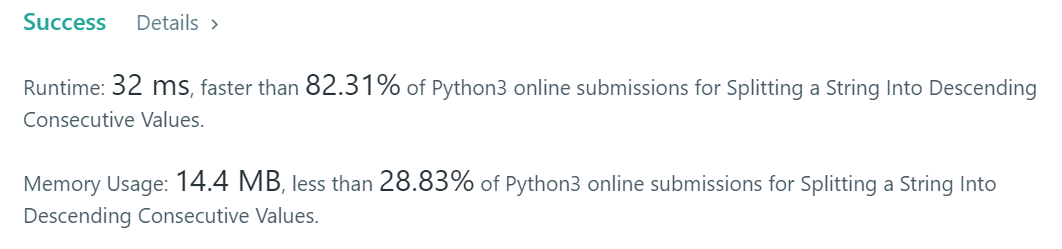
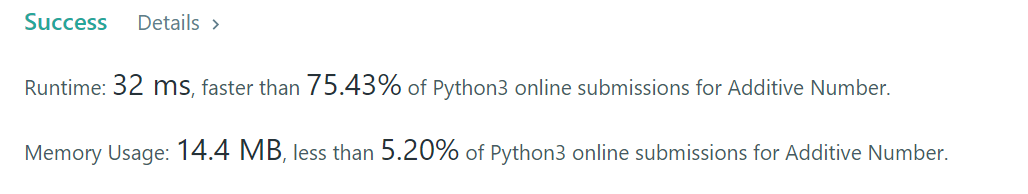
GitBook: [#59] No subject

Changed region(s): [[0.0, 0.2784, 0.9961, 0.5258], [0.0, 0.6804, 0.9339, 0.9278], [0.0, 0.0619, 0.2179, 0.1546]]

diff --git a/2022.jan.14/20.-valid-parentheses.md b/2022.jan.14/20.-valid-parentheses.md
@@ -1,0 +1,82 @@
+# 20. Valid Parentheses
+
+* Easy
+*   Given a string `s` containing just the characters `'('`, `')'`, `'{'`, `'}'`, `'['` and `']'`, determine if the input string is valid.
+
+    An input string is valid if:
+
+    1. Open brackets must be closed by the same type of brackets.
+    2. Open brackets must be closed in the correct order.
+
+    &#x20;
+
+### Solution Python&#x20;
+
+![](<../.gitbook/assets/image (13).png>)
+
+```
+class Solution:
+    def isValid(self, s: str) -> bool:
+        openb={"(":")","{":"}","[":"]"}
+        ans=[]
+        for i in s:
+            if i in openb:
+                ans.append(i)
+            else:
+                if ans==[]:
+                    return False
+                check=ans.pop()
+                if openb[check]!=i:
+                    return False
+        return ans == []
+```
+
+### Solution C&#x20;
+
+Notice that in the program we are using '' instead of "". In C they mean [differently](https://stackoverflow.com/questions/25384517/whats-the-difference-between-and-in-c-programming): Double quotes for strings and single quotes for characters.&#x20;
+
+![](<../.gitbook/assets/image (14).png>)
+
+```
+bool isValid(char * s){
+    int n = strlen(s);
+    char* test=malloc(sizeof(char)*n);
+    char c,e;
+    int top=0;
+    for (int i=0;i<n;i++){
+        c=s[i];
+        if (c==')'){
+            if (top==0){
+                return false;
+            } 
+            top-=1;
+            e=test[top];
+            if (e!='('){
+                return false;
+            }
+        }else if (c==']'){
+            if (top==0){
+                return false;
+            } 
+            top-=1;
+            e=test[top];
+            if (e!='['){
+                return false;
+            }
+        }else if (c=='}'){
+            if (top==0){
+                return false;
+            } 
+            top-=1;
+            e=test[top];
+            if (e!='{'){
+                return false;
+            }
+        }else{
+            test[top]=c;
+            top+=1;
+        }
+    }
+    return (top==0);
+}
+```

diff --git a/2022.jan.14/22.-generate-parentheses.md b/2022.jan.14/22.-generate-parentheses.md
@@ -1,0 +1,48 @@
+# 22. Generate Parentheses
+
+* Medium
+*   Given `n` pairs of parentheses, write a function to _generate all combinations of well-formed parentheses_.
+
+    &#x20;
+
+    **Example 1:**
+
+    ```
+    Input: n = 3
+    Output: ["((()))","(()())","(())()","()(())","()()()"]
+    ```
+
+    **Example 2:**
+
+    ```
+    Input: n = 1
+    Output: ["()"]
+    ```
+
+
+
+### Analysis
+
+To generate n pairs of parentheses, we can think of this as an recursive problem.&#x20;
+
+First we generate  a pair. ()
+
+Then we can have 0 inside and n-1 behind it: (  )(.....)
+
+or 1 inside and n-2 behind ((  ))(....)
+
+And you can see where this is going.&#x20;
+
+![](<../.gitbook/assets/image (16).png>)
+
+```
+class Solution:
+    def generateParenthesis(self, n: int) -> List[str]:
+        dp=[[]for i in range(n+1)]
+        dp[0].append("")
+        for i in range(n+1):
+            for j in range(i):
+                dp[i]+=["("+x+")"+y for x in dp[j] for y in dp[i-j-1]]
+        return dp[n]
+```
+

diff --git a/2022.jan.14/24.-swap-nodes-in-pairs.md b/2022.jan.14/24.-swap-nodes-in-pairs.md
@@ -1,0 +1,28 @@
+# 24. Swap Nodes in Pairs
+
+* Medium
+* Given a linked list, swap every two adjacent nodes and return its head. You must solve the problem without modifying the values in the list's nodes (i.e., only nodes themselves may be changed.)
+
+### Solution Python&#x20;
+
+![](<../.gitbook/assets/image (8).png>)
+
+```
+# Definition for singly-linked list.
+# class ListNode:
+#     def __init__(self, val=0, next=None):
+#         self.val = val
+#         self.next = next
+class Solution:
+    def swapPairs(self, head: Optional[ListNode]) -> Optional[ListNode]:
+        dummy=pre=ListNode(0)
+        pre.next=head
+        while pre.next and pre.next.next:
+            #what we want is to change from pre->a->b->b.next
+            #to pre->b->a->b.next
+            a=pre.next
+            b=pre.next.next
+            pre.next, b.next, a.next = b, a, b.next
+            pre=a
+        return dummy.next
+```

diff --git a/winter-break/1838.-frequency-of-the-most-frequent-element.md b/winter-break/1838.-frequency-of-the-most-frequent-element.md
@@ -15,7 +15,7 @@ This is part of DP and we can apply a technic called sliding window. Suppose we 
 
 But pay attention to what is changing during each move. Yes, only the start and the end is changed and the rest stays the same. Now, if we are looking for the , say, average of the subsequence, then for each move towards the end of the array, we only have to look at the new ending point and the point it has left out. Like this pic
 
-![](<../.gitbook/assets/image (16) (1) (1).png>)
+![](<../.gitbook/assets/image (16) (1) (1) (1).png>)
 
 Now thinking about this question. First we would like it to be sorted so that when we move our 'window' we know that the next one we are facing is larger.&#x20;
 

diff --git a/winter-break/306.-additive-number.md b/winter-break/306.-additive-number.md
@@ -27,7 +27,7 @@ But we can stop here for 1 and we know that increasing the length of the second 
 
 Taking the '1' out, we would have 8 digits remaining in the string. If the second number is of 4 digits, say "1987", then the third number would have 4 or 5 digits (9999+1=10000 with 5 digits). But if we split the string so that the second number is of 5 digits, then there will only be 3 digits left for the third number. And a one digit number + a five digit number can never be a three digit number.&#x20;
 
-![](<../.gitbook/assets/image (8) (1) (1) (1).png>)
+![](<../.gitbook/assets/image (8) (1) (1) (1) (1).png>)
 
 ```
 import math

diff --git a/winter-break/209.-minimum-size-subarray-sum.md b/winter-break/209.-minimum-size-subarray-sum.md
@@ -7,7 +7,7 @@
 
 This is another example of using sliding window. Whenever we add an number into the list, we remove some from the front and make sure the window we are using remains the smallest possible with these values.&#x20;
 
-![](<../.gitbook/assets/image (14) (1) (1).png>)
+![](<../.gitbook/assets/image (14) (1) (1) (1).png>)
 
 ```
 class Solution:
@@ -29,7 +29,7 @@ class Solution:
 
 There is another same solution. Just changing from subtracting to adding
 
-![](<../.gitbook/assets/image (13) (1) (1) (1).png>)
+![](<../.gitbook/assets/image (13) (1) (1) (1) (1).png>)
 
 ```
 class Solution:

diff --git a/winter-break/198.-house-robber.md b/winter-break/198.-house-robber.md
@@ -11,7 +11,7 @@ For the robber, whenever he comes to an house, there is two options for him, rob
 
 Since the robber always earn something when rob a house, X√X is always better than XXX no matter if the robber is planning on robbing the other houses apart from the three. Therefore, when we think about a house, we only consider two house before that. The houses further before would not have any effect on our decision.&#x20;
 
-![](<../.gitbook/assets/image (8) (1).png>)
+![](<../.gitbook/assets/image (8) (1) (1).png>)
 
 ```
 class Solution:

diff --git a/2022.jan.14/19.-remove-nth-node-from-end-of-list.md b/2022.jan.14/19.-remove-nth-node-from-end-of-list.md
@@ -30,7 +30,7 @@ class Solution:
 
 The second idea is more elegant. First we set two pointers and set the fast pointer to be n places ahead of the slow pointer. Then, when the fast pointer points at the end, we know that the slow pointer is pointing at the nth node. Now we just have to remove the node the slow pointer is about.&#x20;
 
-![](<../.gitbook/assets/image (16).png>)
+![](<../.gitbook/assets/image (16) (1).png>)
 
 ```
 # Definition for singly-linked list.

diff --git a/SUMMARY.md b/SUMMARY.md
@@ -119,3 +119,6 @@
 * [17. Letter Combinations of a Phone Number](2022.jan.14/17.-letter-combinations-of-a-phone-number.md)
 * [18. 4Sum](2022.jan.14/18.-4sum.md)
 * [19. Remove Nth Node From End of List](2022.jan.14/19.-remove-nth-node-from-end-of-list.md)
+* [20. Valid Parentheses](2022.jan.14/20.-valid-parentheses.md)
+* [22. Generate Parentheses](2022.jan.14/22.-generate-parentheses.md)
+* [24. Swap Nodes in Pairs](2022.jan.14/24.-swap-nodes-in-pairs.md)

diff --git a/2022.jan.13/13.-roman-to-integer.md b/2022.jan.13/13.-roman-to-integer.md
@@ -28,7 +28,7 @@
 
 This is exactly the same as the [previous question](12.-integer-to-roman.md) , all we need to do is go through the string. First we try cutting it by 2 digit, if that is in the dic then we add it to the dic. If it is not in the dic, then this digit is not formed by subtraction and we can take that as a single roman digit.&#x20;
 
-![](<../.gitbook/assets/image (8).png>)
+![](<../.gitbook/assets/image (8) (1).png>)
 
 ```
 class Solution:

diff --git a/2022.jan.13/9.-palindrome-number.md b/2022.jan.13/9.-palindrome-number.md
@@ -21,7 +21,7 @@ class Solution:
 
 Now without converting it into a string.&#x20;
 
-![](<../.gitbook/assets/image (13).png>)
+![](<../.gitbook/assets/image (13) (1).png>)
 
 ```
 class Solution:
@@ -49,7 +49,7 @@ x=12          result=123
 
 And we can stop here and see if x==result (x==result//10 when it has odd number of digits).&#x20;
 
-![](<../.gitbook/assets/image (14).png>)
+![](<../.gitbook/assets/image (14) (1).png>)
 
 ```
 class Solution:

diff --git a/winter-break/1849.-splitting-a-string-into-descending-consecutive-values.md b/winter-break/1849.-splitting-a-string-into-descending-consecutive-values.md
@@ -24,7 +24,7 @@ Things to notice:
 
 &#x20; 3\. If there is only one number then it doesn't satifsy the requirement. For example, "0001", we cannot split it into itself. Therefore we should have a counter to count if we have more than one number being splitted. &#x20;
 
-![](<../.gitbook/assets/image (8) (1) (1) (1) (1).png>)
+![](<../.gitbook/assets/image (8) (1) (1) (1) (1) (1).png>)
 
 ```
 class Solution:
